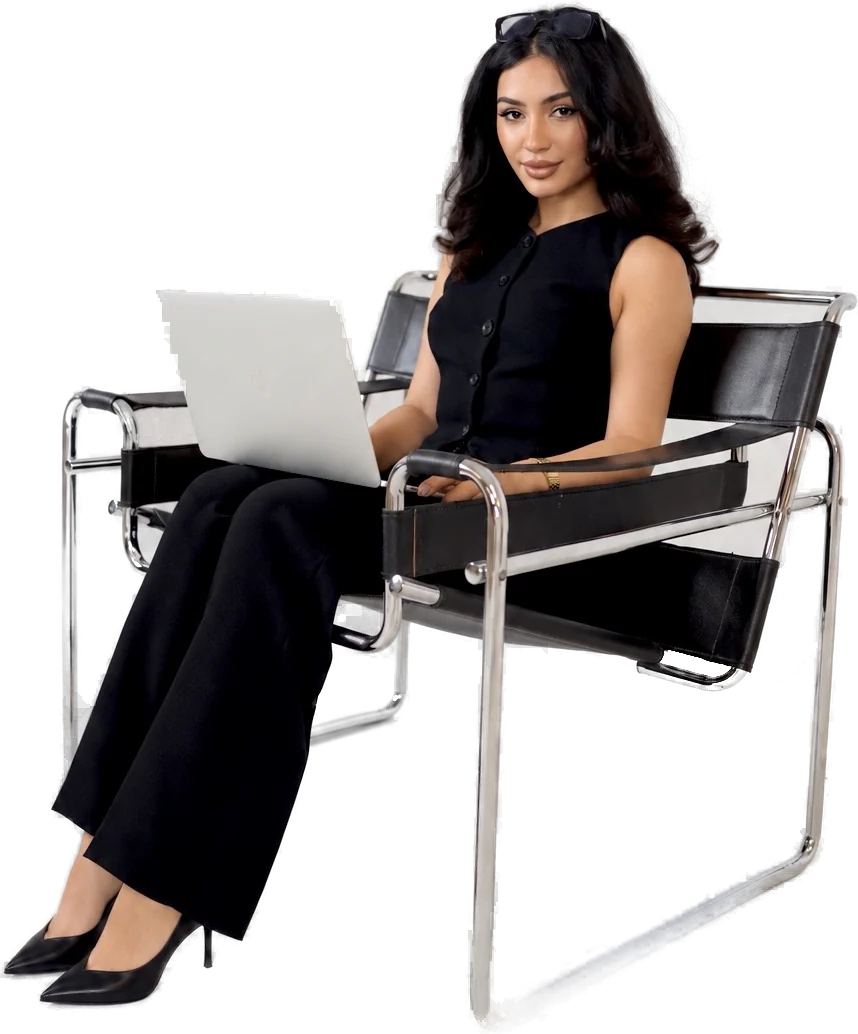
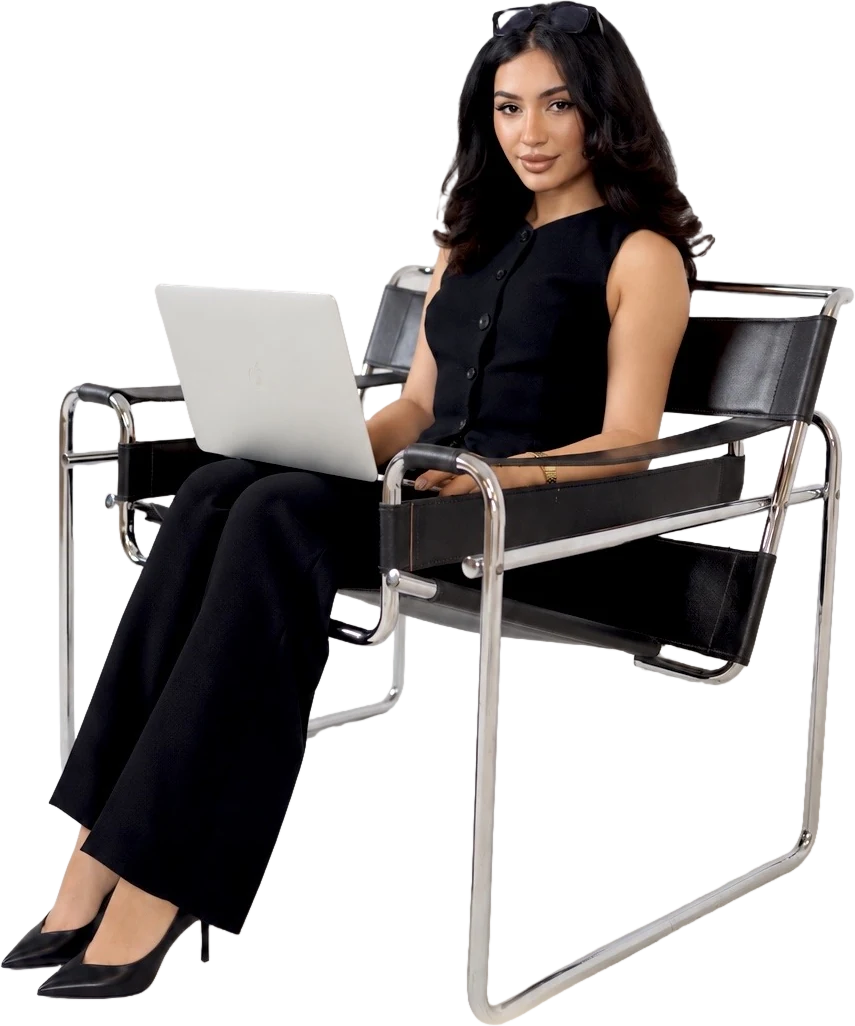
Cleaner chair cutout on Services; white sticker border on the About photo
Claude-Session: https://claude.ai/code/session_01T8NNnyTMGnRn54J3c2BVxa

diff --git a/services.html b/services.html
@@ -480,7 +480,7 @@ footer { background: var(--black); padding: 80px 60px 40px; }
       <figure class="os-figure">
         <picture>
           <source media="(max-width: 600px)" srcset="images/helia-chair-cutout-sm.webp">
-          <img src="images/helia-chair-cutout.webp" alt="Helia Homam, founder of GrandAscend, seated with her laptop" width="858" height="1034" fetchpriority="high">
+          <img src="images/helia-chair-cutout.webp" alt="Helia Homam, founder of GrandAscend, seated with her laptop" width="855" height="1026" fetchpriority="high">
         </picture>
       </figure>
       <div class="os-folders right">
